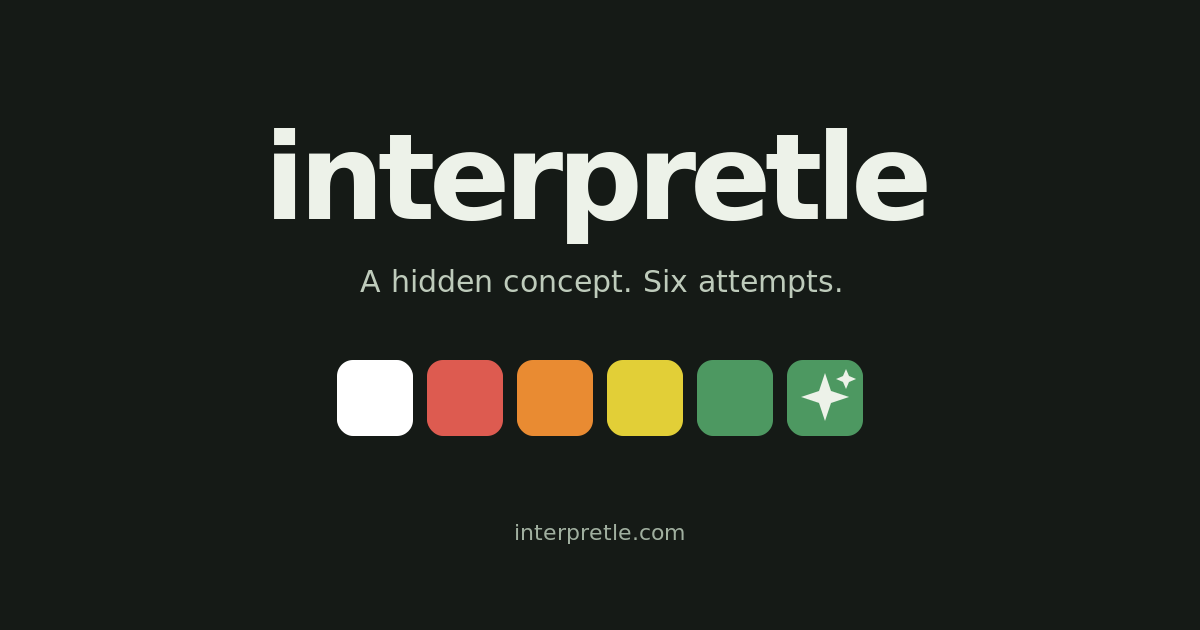
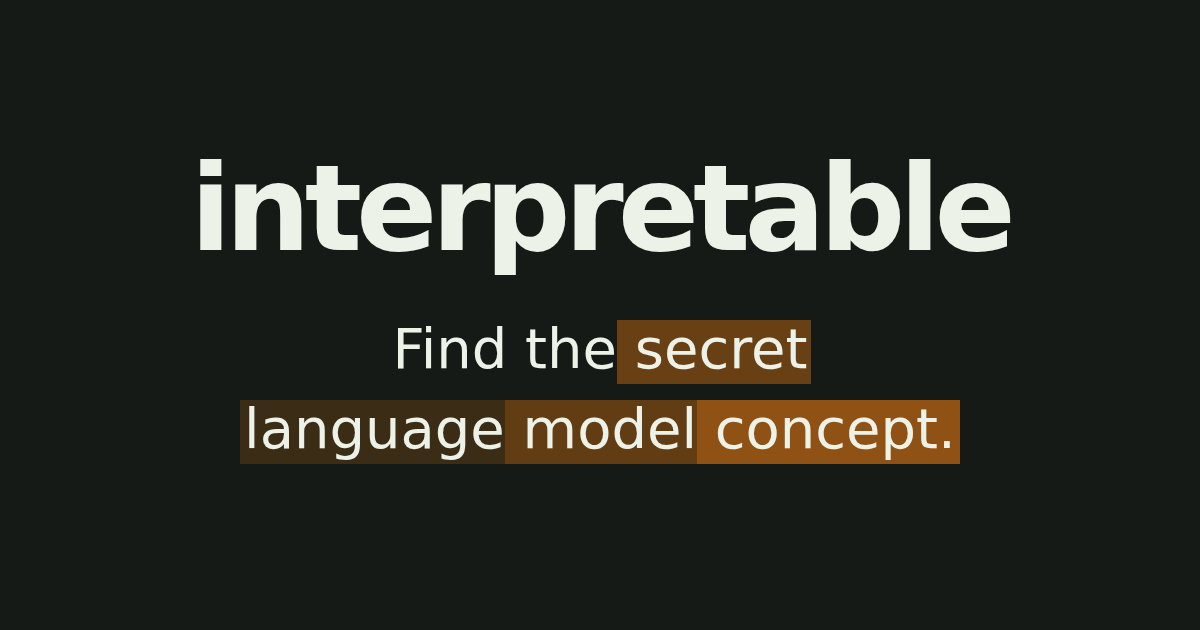
Refresh the social preview with highlighted concept text

Changed region(s): [[0.1542, 0.181, 0.8633, 0.754], [0.4317, 0.8143, 0.555, 0.8746]]

diff --git a/index.html b/index.html
@@ -19,23 +19,23 @@
     />
     <meta
       property="og:image"
-      content="https://interpretle.com/share-card.png"
+      content="https://interpretle.com/share-card.png?v=2"
     />
     <meta property="og:image:type" content="image/png" />
     <meta property="og:image:width" content="1200" />
     <meta property="og:image:height" content="630" />
     <meta
       property="og:image:alt"
-      content="interpretle. A hidden concept. Six attempts. Six rounded activation tiles progress from white through red, orange, yellow and green to a sparkle."
+      content="interpretable. Find the secret language model concept. Mock activation highlights emphasize the words."
     />
     <meta name="twitter:card" content="summary_large_image" />
     <meta
       name="twitter:image"
-      content="https://interpretle.com/share-card.png"
+      content="https://interpretle.com/share-card.png?v=2"
     />
     <meta
       name="twitter:image:alt"
-      content="interpretle. A hidden concept. Six attempts."
+      content="interpretable. Find the secret language model concept. Mock activation highlights emphasize the words."
     />
     <link rel="icon" href="/favicon.ico?v=2" sizes="16x16 32x32 48x48" />
     <link rel="icon" type="image/svg+xml" href="/favicon.svg?v=2" sizes="any" />
